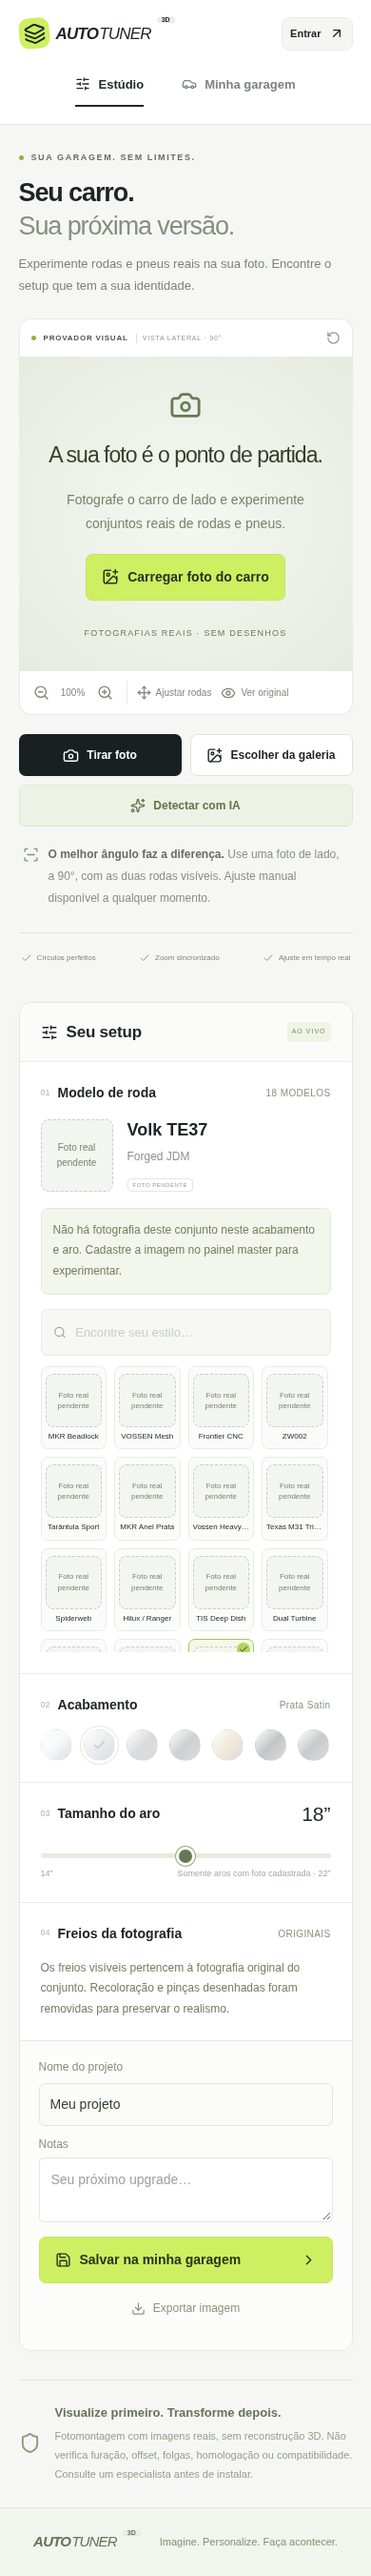
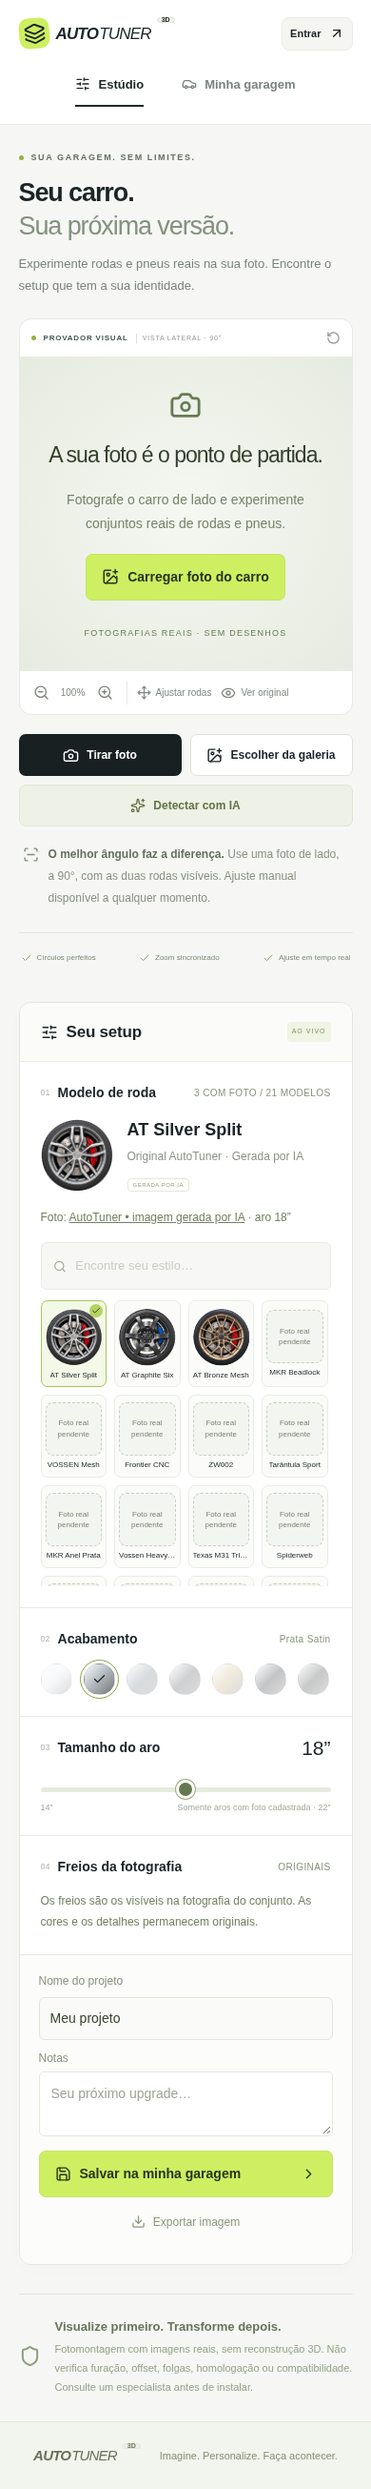
Add three photorealistic AI wheel assemblies with clear provenance

diff --git a/src/main.tsx b/src/main.tsx
@@ -36,6 +36,7 @@ import {
 } from "./catalog";
 import { PhotoCatalog, findPhoto, type WheelPhoto } from "./PhotoCatalog";
 import PhotoUpload from "./PhotoUpload";
+import { generatedPhotos, mergePhotos, inlinePhoto } from "./generatedPhotos";
 import "./style.css";
 type User = { id: number; name: string; role: string };
 type Project = { id: number; name: string; created: string; payload: any };
@@ -56,7 +57,7 @@ function App() {
     [register, setRegister] = useState(false),
     [message, setMessage] = useState(""),
     [image, setImage] = useState(""),
-    [model, setModel] = useState(14),
+    [model, setModel] = useState(18),
     [finish, setFinish] = useState(1),
     [caliper, setCaliper] = useState(4),
     [angle, setAngle] = useState(20),
@@ -77,7 +78,7 @@ function App() {
     [notes, setNotes] = useState(""),
     [projectName, setProjectName] = useState("Meu projeto"),
     [saving, setSaving] = useState(false);
-  const [photos, setPhotos] = useState<WheelPhoto[]>([]),
+  const [photos, setPhotos] = useState<WheelPhoto[]>(generatedPhotos),
     [savedPhoto, setSavedPhoto] = useState<WheelPhoto | undefined>();
   const activePhoto =
     savedPhoto?.model === model &&
@@ -99,7 +100,7 @@ function App() {
   }
   useEffect(() => {
     api("catalog/photos")
-      .then(setPhotos)
+      .then((rows) => setPhotos(mergePhotos(rows)))
       .catch((e) => notify(e.message));
   }, []);
   useEffect(() => {
@@ -257,7 +258,10 @@ function App() {
           size,
           wheels,
           notes,
-          photo: activePhoto,
+          photo: {
+            ...activePhoto,
+            image: await inlinePhoto(activePhoto.image),
+          },
         },
       });
       notify("Projeto salvo na sua garagem.");
@@ -284,6 +288,12 @@ function App() {
           svg.setAttribute("xmlns", "http://www.w3.org/2000/svg");
           svg.setAttribute("width", "500");
           svg.setAttribute("height", "500");
+          for (const node of svg.querySelectorAll("image")) {
+            node.setAttribute(
+              "href",
+              await inlinePhoto(node.getAttribute("href") || ""),
+            );
+          }
           const blob = new Blob([new XMLSerializer().serializeToString(svg)], {
               type: "image/svg+xml",
             }),
@@ -404,8 +414,8 @@ function App() {
                   Seu carro. <em>Sua próxima versão.</em>
                 </h1>
                 <p>
-                  Experimente rodas e pneus reais na sua foto. Encontre o setup
-                  que tem a sua identidade.
+                  Experimente rodas e pneus na sua foto. Encontre o setup que
+                  tem a sua identidade.
                 </p>
               </div>
               <span className="studio-badge">
@@ -440,8 +450,8 @@ function App() {
                         <Camera size={34} />
                         <h2>A sua foto é o ponto de partida.</h2>
                         <p>
-                          Fotografe o carro de lado e experimente conjuntos
-                          reais de rodas e pneus.
+                          Fotografe o carro de lado e experimente conjuntos de
+                          rodas e pneus.
                         </p>
                         <button
                           className="primary"
@@ -450,7 +460,7 @@ function App() {
                           <ImagePlus size={18} />
                           Carregar foto do carro
                         </button>
-                        <span>FOTOGRAFIAS REAIS · SEM DESENHOS</span>
+                        <span>FOTO DO SEU CARRO · CATÁLOGO VISUAL</span>
                       </div>
                     )}
                     <div ref={scene} className="scene" hidden={!image}>
@@ -460,7 +470,8 @@ function App() {
                         alt="Sua foto real de perfil do veículo"
                         draggable={false}
                       />
-                      {!before &&
+                      {!!image &&
+                        !before &&
                         !!activePhoto &&
                         wheels.map((w, i) => (
                           <div
@@ -663,7 +674,7 @@ function App() {
                             .filter((id) => enabled.includes(id)),
                         ).size
                       }{" "}
-                      COM FOTO / {enabled.length} MODELOS
+                      COM IMAGEM / {enabled.length} MODELOS
                     </span>
                   </div>
                   <div className="model-current">
@@ -677,13 +688,17 @@ function App() {
                       <h4>{models[model].name}</h4>
                       <p>{models[model].subtitle}</p>
                       <span className="outline-tag">
-                        {activePhoto ? "FOTOGRAFIA REAL" : "FOTO PENDENTE"}
+                        {activePhoto
+                          ? activePhoto.origin === "generated"
+                            ? "GERADA POR IA"
+                            : "FOTOGRAFIA REAL"
+                          : "FOTO PENDENTE"}
                       </span>
                     </div>
                   </div>
                   {activePhoto ? (
                     <p className="photo-source">
-                      Foto:{" "}
+                      Origem:{" "}
                       <a
                         href={activePhoto.source}
                         target="_blank"
@@ -716,6 +731,11 @@ function App() {
                           (m.name + " " + m.subtitle)
                             .toLowerCase()
                             .includes(query.toLowerCase()),
+                      )
+                      .sort(
+                        (a, b) =>
+                          Number(photos.some((p) => p.model === b.id)) -
+                          Number(photos.some((p) => p.model === a.id)),
                       )
                       .map((m) => (
                         <button

diff --git a/server.ts b/server.ts
@@ -182,7 +182,7 @@ app.post("/api/projects", async (req, res) => {
     !payload.wheels.every(validPlacement) ||
     !Number.isInteger(payload.model) ||
     payload.model < 0 ||
-    payload.model > 17 ||
+    payload.model >= models.length ||
     !Number.isInteger(payload.finish) ||
     payload.finish < 0 ||
     payload.finish > 6 ||
@@ -213,11 +213,9 @@ app.post("/api/projects", async (req, res) => {
       !/^https?:\/\//.test(p.source) ||
       typeof p.credit !== "string"
     )
-      return res
-        .status(400)
-        .json({
-          error: "A fotografia não corresponde ao acabamento e aro do projeto.",
-        });
+      return res.status(400).json({
+        error: "A fotografia não corresponde ao acabamento e aro do projeto.",
+      });
   }
   const r = await db
     .prepare("INSERT INTO projects(user_id,name,payload) VALUES(?,?,?)")
@@ -299,7 +297,7 @@ app.post("/api/admin/photos", async (req, res) => {
     !["rim", "assembly"].includes(kind) ||
     !Number.isInteger(model) ||
     model < 0 ||
-    model > 17 ||
+    model >= models.length ||
     !Number.isInteger(finish) ||
     finish < 0 ||
     finish > 6 ||
@@ -316,11 +314,9 @@ app.post("/api/admin/photos", async (req, res) => {
     !credit.trim() ||
     credit.length > 200
   )
-    return res
-      .status(400)
-      .json({
-        error: "Confira a foto, o modelo, o aro, o acabamento e a fonte.",
-      });
+    return res.status(400).json({
+      error: "Confira a foto, o modelo, o aro, o acabamento e a fonte.",
+    });
   await db
     .prepare(
       "INSERT INTO wheel_photos(model,finish,size,image,source,credit,kind) VALUES(?,?,?,?,?,?,?) ON CONFLICT(model,finish,size) DO UPDATE SET image=excluded.image,source=excluded.source,credit=excluded.credit,kind=excluded.kind",
@@ -341,7 +337,7 @@ app.post("/api/admin/catalog", async (req, res) => {
   if (
     !Number.isInteger(id) ||
     id < 0 ||
-    id > 17 ||
+    id >= models.length ||
     typeof enabled !== "boolean"
   )
     return res.status(400).json({ error: "Dados inválidos." });

diff --git a/src/generatedPhotos.ts b/src/generatedPhotos.ts
@@ -1,0 +1,64 @@
+import type { WheelPhoto } from "./PhotoCatalog";
+export const generatedPhotos: WheelPhoto[] = [
+  {
+    id: -1,
+    model: 18,
+    finish: 1,
+    size: 18,
+    image: "/wheels/silver-split.png",
+    kind: "assembly",
+    origin: "generated",
+    credit: "AutoTuner • imagem gerada por IA",
+    source: "https://github.com/robertosugayama/carros#imagens-geradas-por-ia",
+  },
+  {
+    id: -2,
+    model: 19,
+    finish: 3,
+    size: 18,
+    image: "/wheels/graphite-six.png",
+    kind: "assembly",
+    origin: "generated",
+    credit: "AutoTuner • imagem gerada por IA",
+    source: "https://github.com/robertosugayama/carros#imagens-geradas-por-ia",
+  },
+  {
+    id: -3,
+    model: 20,
+    finish: 4,
+    size: 18,
+    image: "/wheels/bronze-mesh.png",
+    kind: "assembly",
+    origin: "generated",
+    credit: "AutoTuner • imagem gerada por IA",
+    source: "https://github.com/robertosugayama/carros#imagens-geradas-por-ia",
+  },
+];
+export function mergePhotos(remote: WheelPhoto[]) {
+  return [
+    ...remote,
+    ...generatedPhotos.filter(
+      (g) =>
+        !remote.some(
+          (p) =>
+            p.model === g.model && p.finish === g.finish && p.size === g.size,
+        ),
+    ),
+  ];
+}
+export async function inlinePhoto(image: string): Promise<string> {
+  if (image.startsWith("data:")) return image;
+  if (!image.startsWith("/wheels/"))
+    throw Error("Imagem de catálogo inválida.");
+  const img = new Image();
+  img.src = image;
+  await img.decode();
+  const c = document.createElement("canvas");
+  c.width = 800;
+  c.height = 800;
+  c.getContext("2d")!.drawImage(img, 0, 0, 800, 800);
+  const result = c.toDataURL("image/webp", 0.88);
+  if (result.length > 900000)
+    throw Error("A imagem excedeu o limite do projeto.");
+  return result;
+}

diff --git a/src/catalog.ts b/src/catalog.ts
@@ -17,6 +17,9 @@ export const models = [
   ["RS / GT OEM", "Replica · Diamantada", "split", 5, 5],
   ["Vossen CVT", "Directional Sport", "turbine", 10, 5],
   ["Vossen Split-5", "Concave Luxury", "split", 5, 5],
+  ["AT Silver Split", "Original AutoTuner · Gerada por IA", "photo", 5, 5],
+  ["AT Graphite Six", "Original AutoTuner · Gerada por IA", "photo", 6, 5],
+  ["AT Bronze Mesh", "Original AutoTuner · Gerada por IA", "photo", 10, 5],
 ].map(([name, subtitle, design, spokes, lugs], id) => ({
   id,
   name: String(name),

diff --git a/src/Wheel.tsx b/src/Wheel.tsx
@@ -36,7 +36,7 @@ export default function Wheel({
     <svg
       viewBox="0 0 1000 1000"
       role="img"
-      aria-label={`Fotografia de ${models[model]?.name}, aro ${size}, ${finishes[finish]?.[0]}`}
+      aria-label={`${asset.origin === "generated" ? "Imagem gerada por IA de" : "Fotografia de"} ${models[model]?.name}, aro ${size}, ${finishes[finish]?.[0]}`}
       style={{ width: "100%", height: "100%", display: "block" }}
     >
       <defs>

diff --git a/tests/core.test.ts b/tests/core.test.ts
@@ -12,8 +12,8 @@ import {
   validPlacement,
 } from "../src/catalog.ts";
 test("catálogo e geometria física", () => {
-  assert.equal(models.length, 18);
-  assert.equal(new Set(models.map((m) => m.id)).size, 18);
+  assert.equal(models.length, 21);
+  assert.equal(new Set(models.map((m) => m.id)).size, 21);
   assert.equal(finishes.length, 7);
   assert.equal(calipers.length, 11);
   assert.ok(rimRatio(14) < rimRatio(22));

diff --git a/src/PhotoCatalog.tsx b/src/PhotoCatalog.tsx
@@ -1,5 +1,6 @@
 import { createContext, useContext } from "react";
 export type WheelPhoto = {
+  origin?: "generated" | "photograph";
   id: number;
   model: number;
   finish: number;

diff --git a/README.md b/README.md
@@ -15,7 +15,7 @@ Servidor Express e frontend na mesma porta, **3000** por padrão. Se estiver ocu
 
 ## Provador fotográfico
 
-O renderizador de rodas desenhadas e o carro ilustrado foram removidos. O estúdio começa pedindo uma foto real do veículo. Os 18 modelos são entradas de catálogo: **fotografias reais dos fabricantes ainda precisam ser obtidas e cadastradas**. Um modelo sem foto informa a pendência; nunca recebe desenho ou foto de outro produto como substituto.
+O renderizador de rodas desenhadas e o carro ilustrado foram removidos. O estúdio começa pedindo uma foto real do veículo. Além das três opções originais geradas por IA, os 18 modelos de marcas são entradas de catálogo: **fotografias reais dos fabricantes ainda precisam ser obtidas e cadastradas**. Um modelo sem foto informa a pendência; nunca recebe desenho ou foto de outro produto como substituto.
 
 O administrador cadastra uma foto por modelo, acabamento e aro em **Admin → Catálogo fotográfico real**, com fonte e crédito obrigatórios. Há enquadramento circular e ajuste de centro/ampliação antes de salvar. PNG, JPEG e WebP são aceitos; imagens são normalizadas a WebP de 800 px com transparência fora do círculo.
 
@@ -73,3 +73,11 @@ O teste de navegador usa Chromium instalado em `/usr/bin/chromium`; ajuste `exec
 A montagem é 2D com fotografias reais, sem reconstrução tridimensional. Não verifica furação, offset, folgas ou homologação. Consulte um especialista antes da instalação. O nome de cada produto deve ser conferido na fonte do fabricante antes de cadastrar sua imagem; os nomes existentes no catálogo não comprovam correspondência sem a fotografia.
 
 As fotos completas são armazenadas no banco nesta versão. Para muitos modelos/variantes e alto tráfego, use armazenamento de objetos e miniaturas. Configure backups, rate limiting compartilhado, política de privacidade/retensão e recuperação de senha antes de ampliar o acesso público. Uma detecção Gemini real e o banco Turso remoto continuam sem validação neste ambiente.
+
+## Imagens geradas por IA
+
+O catálogo inclui três conjuntos originais de aparência fotográfica: **AT Silver Split**, **AT Graphite Six** e **AT Bronze Mesh**, com pneus e freios. São imagens geradas por IA, não fotografias de produtos existentes ou de fabricantes. A interface identifica a origem como **GERADA POR IA**. Elas não correspondem aos 18 modelos de marcas do catálogo original e têm IDs próprios (18 a 20).
+
+Os arquivos PNG transparentes estão em `public/wheels`, disponíveis mesmo antes de configurar o banco. Fotos reais cadastradas pelo master são preservadas e podem ampliar o catálogo. Para modelos de fabricantes, ainda faltam as fotos reais verificadas. Os conjuntos gerados representam visualmente aro 18 para a simulação; não certificam dimensão, material ou compatibilidade real.
+
+O catálogo agora reúne 18 referências pendentes de fotos e 3 opções originais prontas. Ao salvar, cada imagem é incorporada ao projeto em WebP; ao exportar PNG, as imagens externas do SVG são incorporadas antes de renderizar para evitar rodas ausentes no arquivo final.
